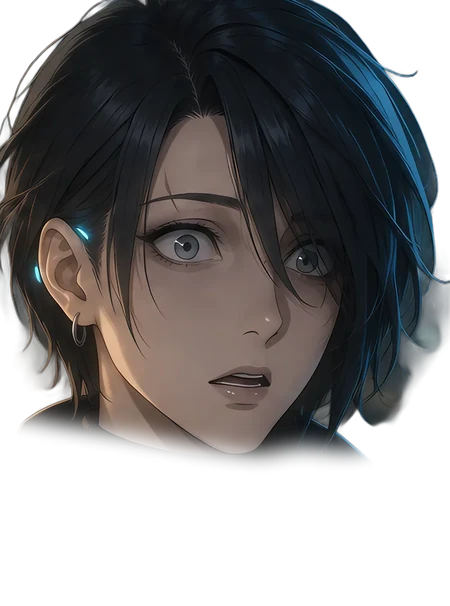
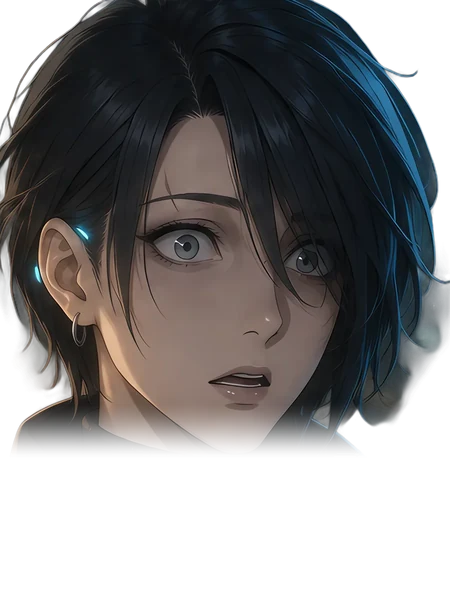
Voron and Eva: bodies drawn by the model straight from their busts
The previous bodies were separate drawings with the bust head pasted on,
which left the head visibly offset from the neck. Now Nano Banana (Weave)
extended each bust downward into a knee-length figure, so head, neck,
shoulders and clothes are one drawing; expression heads are placed back
exactly where the model kept the head (face match 0.88 and 0.96).

- tools/art/outpaint.py: locate head (scale/offset search), matte, erase
  leftovers of the model's hair outline, fade the knees, export heads
- Figures are scaled by head size, so every character's head is the same
  size on screen regardless of how the body frame was drawn
- Crossed-arms poses removed for these two (they belonged to old bodies)

Claude-Session: https://claude.ai/code/session_01NQp3aBSK82YdHwbRoDiYHY

Changed region(s): [[0.28, 0.6535, 0.8089, 0.7723], [0.0311, 0.6832, 0.2489, 0.7426], [0.8089, 0.6832, 0.8711, 0.7129]]

diff --git a/src/engine/stage.ts b/src/engine/stage.ts
@@ -30,8 +30,8 @@ const bodyPoseFor = (id: string, expr: string) => {
   return pose && BODIES[id]?.poses?.includes(pose) ? pose : '';
 };
 /** Раскладка «персонаж стоит в сцене»: ноги за нижним краем, голова ~20 % высоты экрана, фон вокруг виден */
-const BODY_SCALE = 0.8;      // точек сцены на точку кадра тела (для роста 1.0)
-const BODY_GROUND = 1300;    // где ступни (ниже края экрана 1080)
+const HEAD_BOX = 330;        // высота кадра головы (бюста) в точках сцены при росте 1.0 — сама голова ≈ 60 % его
+const HEAD_TOP = 64;         // верх кадра головы у самого высокого персонажа
 const SLOT_X: Record<Side, number> = { left: 440, center: 960, right: 1480 };
 /** Добавить или заменить описание персонажа во время работы (тесты, моды) */
 export function definePortrait(id: string, entry: PortraitEntry) { MAN[id] = entry; }
@@ -401,9 +401,13 @@ export class Stage {
   }
   /** Размер и место персонажа с телом: свой рост, ступни на общей «земле», центр — в слоте стороны */
   private placeBody(root: HTMLElement, b: BodyDef, side: Side) {
-    const k = BODY_SCALE * b.hf;
+    // масштаб — по голове: у всех персонажей голова одного размера (с поправкой на рост), как бы ни был нарисован кадр тела
+    const [bl, bt, bw, bh] = b.bust;
+    const k = (HEAD_BOX * b.hf) / ((bh / 100) * b.h);
     const w = b.w * k, h = b.h * k;
-    Object.assign(root.style, { width: `${w}px`, height: `${h}px`, top: `${BODY_GROUND - h}px`, left: `${SLOT_X[side] - w / 2}px`, right: 'auto', bottom: 'auto' });
+    const top = HEAD_TOP + HEAD_BOX * (1 - b.hf) * 1.6 - (bt / 100) * h;
+    const headCx = ((bl + bw / 2) / 100) * w;
+    Object.assign(root.style, { width: `${w}px`, height: `${h}px`, top: `${top}px`, left: `${SLOT_X[side] - headCx}px`, right: 'auto', bottom: 'auto' });
   }
   /** Жест при смене эмоции (только сдвиги и наклоны слоя — считает видеокарта, картинка не перерисовывается):
    * гнев — подаётся к собеседнику, испуг — отшатывается, грусть — никнет, смех — подпрыгивает, иначе — кивок */

diff --git a/tools/art/outpaint.py b/tools/art/outpaint.py
@@ -43,15 +43,15 @@ def locate(out_rgb, bust, s0, x0, y0):
     """Где модель оставила голову: перебор масштаба и сдвига вокруг исходного места по лицу (верх бюста)."""
     face = bust.crop((150, 150, 750, 760))
     best = None
-    for ds in np.linspace(-0.06, 0.06, 13):
+    for ds in np.linspace(-0.35, 0.1, 46):
         s = s0 * (1 + ds)
         f = face.resize((round(600 * s), round(610 * s)), Image.LANCZOS)
         fg = gray(f.convert('RGB'))
         fa = np.asarray(f.getchannel('A'), dtype=np.float32) / 255
         fx, fy = x0 + 150 * s, y0 + 150 * s
         H, W = fg.shape
-        for dy in range(-24, 25, 3):
-            for dx in range(-24, 25, 3):
+        for dy in range(-60, 41, 4):
+            for dx in range(-60, 61, 4):
                 X, Y = round(fx + dx), round(fy + dy)
                 if X < 0 or Y < 0 or X + W > out_rgb.width or Y + H > out_rgb.height:
                     continue
@@ -75,19 +75,35 @@ def head_mask(bust):
 def build(ch, inputs, preview=False):
     cfg = inputs[ch]
     out_rgb = Image.open(os.path.join(SRC, f'{ch}_out.png')).convert('RGB')
-    # модель могла вернуть другой размер — приводим к размеру входа (1024×1536)
-    if out_rgb.size != (1024, 1536):
-        out_rgb = out_rgb.resize((1024, 1536), Image.LANCZOS)
+    # модель могла вернуть другой размер — приводим к ширине входа (1024), пропорции сохраняем
+    if out_rgb.width != 1024:
+        out_rgb = out_rgb.resize((1024, round(out_rgb.height * 1024 / out_rgb.width)), Image.LANCZOS)
     ref = unfade(Image.open(os.path.join(PORT, f"{ch}_{cfg['ref']}.webp")).convert('RGBA'))
     score, s, x, y = locate(out_rgb, ref, cfg['s'], cfg['x'], cfg['y'])
     print(f'  {ch}: совпадение лица {score:.3f}, масштаб {s / cfg["s"]:.3f}, сдвиг {x - cfg["x"]:+.0f},{y - cfg["y"]:+.0f}')
     body = matte(out_rgb)
+    # остатки головы модели вокруг нашей головы (другой контур волос) стираются: в полосе вокруг
+    # силуэта головы, выше плеч, тело видно только там, где его закрывает наша голова
+    hb = ref.resize((round(900 * s), round(1212 * s)), Image.LANCZOS).getchannel('A')
+    ha = Image.new('L', body.size, 0)
+    ha.paste(hb, (round(x), round(y)))
+    han = np.asarray(ha, dtype=np.float32) / 255
+    band = np.asarray(ha.point(lambda v: 255 if v > 12 else 0).filter(ImageFilter.MaxFilter(31)), dtype=np.float32) / 255
+    yy = np.arange(body.height, dtype=np.float32)[:, None]
+    upper = np.clip((y + 1212 * s * 0.5 - yy) / 30, 0, 1) * np.clip((yy - y - 2) / 10, 0, 1)  # выше рамки бюста — макушка модели
+    k = 1 - band * upper * (1 - np.clip(han * 1.3, 0, 1))
+    body.putalpha(Image.fromarray((np.asarray(body.getchannel('A'), dtype=np.float32) * k).astype(np.uint8)))
     # обрезка по фигуре
     a8 = np.asarray(body.getchannel('A')) > 8
     ys, xs = np.where(a8)
     x0, y0 = max(0, xs.min() - 6), max(0, min(ys.min(), int(y)) - 6)
     x1, y1 = min(body.width, xs.max() + 6), min(body.height, ys.max() + 4)
     crop = body.crop((x0, y0, x1, y1))
+    # низ кадра (колени) растворяется — если фигура кончается выше края экрана, обрыва не видно
+    ca = np.asarray(crop.getchannel('A'), dtype=np.float32)
+    yy2 = np.linspace(0, 1, ca.shape[0], dtype=np.float32)[:, None]
+    tt = np.clip((yy2 - 0.86) / 0.14, 0, 1)
+    crop.putalpha(Image.fromarray((ca * (1 - tt * tt * (3 - 2 * tt))).astype(np.uint8)))
     os.makedirs(OUT, exist_ok=True)
     crop.save(os.path.join(OUT, f'{ch}.webp'), 'WEBP', quality=88, method=6, alpha_quality=90)
     cw, chh = crop.size
